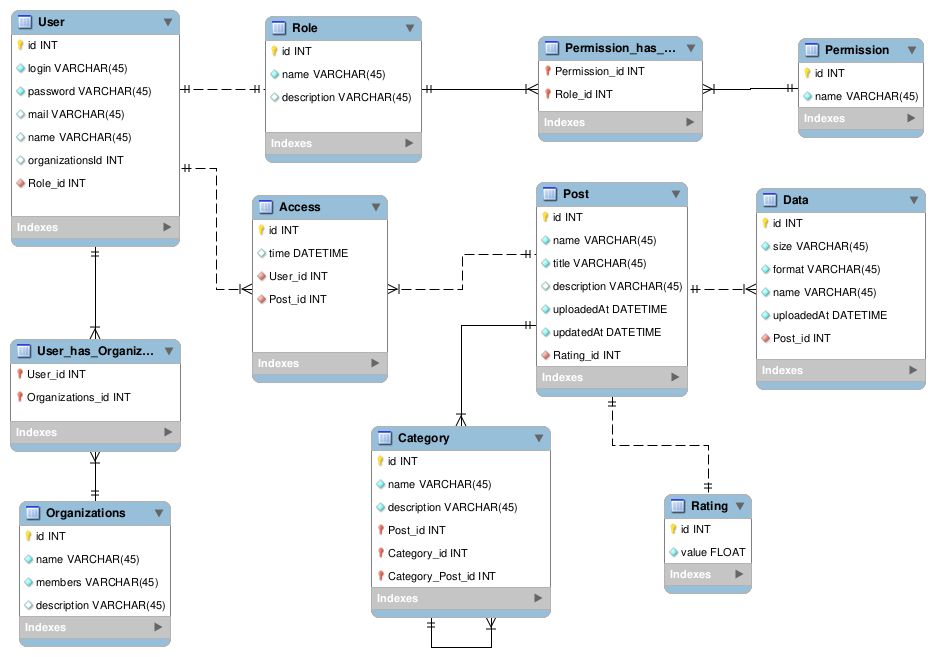
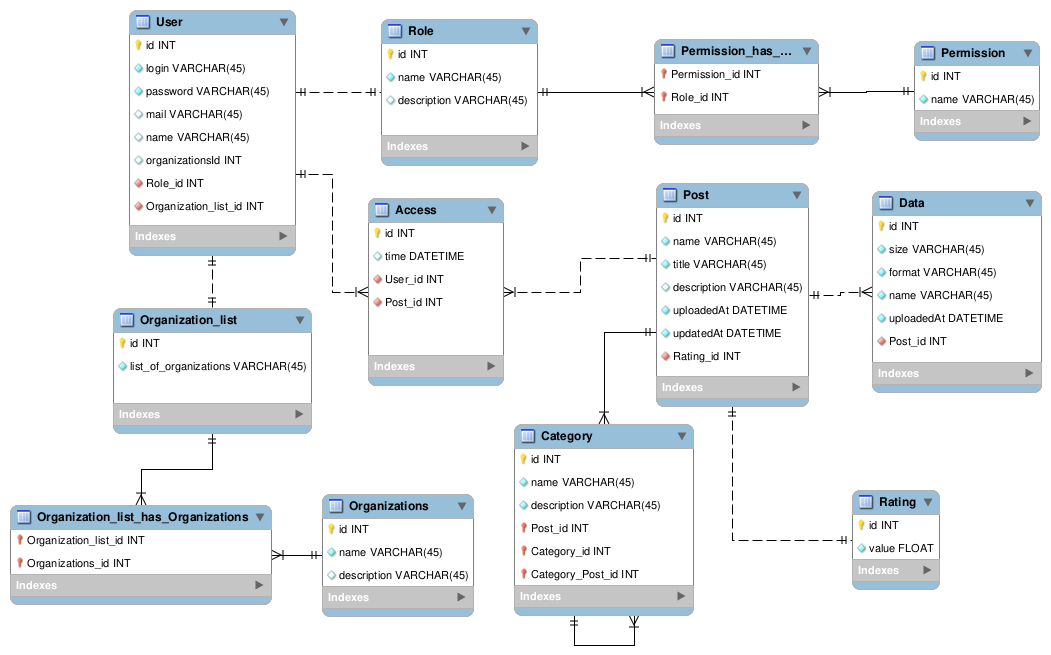
Finalize

diff --git a/docs/design/README.md b/docs/design/README.md
@@ -12,51 +12,62 @@ entity User <<ENTITY>> #ffe396
 entity User.password <<TEXT>> #fcf4dc
 entity User.mail <<TEXT>> #fcf4dc
 entity User.login <<TEXT>> #fcf4dc
-entity User.role <<ENTITY>> #ffe396
+entity Role <<ENTITY>> #ffe396
 entity User.name <<TEXT>> #fcf4dc
 entity User.id <<NUMBER>> #fcf4dc
-entity User.organizationsId <<NUMBER>> #fcf4dc
 
 User.password -d-* User
 User.mail -d-* User
-User.login -u-* User
-User.role "0.*"--"1.1" User
-User.name -r-* User
-User.id -u-* User
-User.organizationsId -u-* User
+User.login -r-* User
+Role "0.*"--"1.1" User
+User.name -d-* User
+User.id -d-* User
 
 entity Role.name <<TEXT>> #fcf4dc
 entity Role.id <<NUMBER>> #fcf4dc
 
-Role.name -d-* User.role
-Role.id -d-* User.role
+Role.name -d-* Role
+Role.id -d-* Role
+
+entity Permission_has_Role <<ENTITY>> #ffe396
+
+Permission_has_Role "0.0"-d-"1.1" Role
 
 entity Permission <<ENTITY>> #ffe396
-entity Permission.id <<INT>> #fcf4dc
+entity Permission.id <<NUMBER>> #fcf4dc
 entity Permission.name <<TEXT>> #fcf4dc
 
-Permission -d- User.role
+Permission "1.1"-r-"0.0" Permission_has_Role
 Permission.id -d-* Permission
 Permission.name -d-* Permission
 
-entity Organizations <<ENTITY>> #ffe396
-entity Organizations.id <<NUMBER>> #fcf4dc
-entity Organizations.name <<TEXT>> #fcf4dc
-entity Organizations.members <<TEXT>> #fcf4dc
-entity Organizations.description <<TEXT>> #fcf4dc
+entity Organization <<ENTITY>> #ffe396
+entity Organization.id <<NUMBER>> #fcf4dc
+entity Organization.name <<TEXT>> #fcf4dc
+entity Organization.description <<TEXT>> #fcf4dc
 
-Organizations "0.*"-l-"0.*" User
-Organizations.id -l-* Organizations
-Organizations.name -d-* Organizations
-Organizations.members -d-* Organizations
-Organizations.description -d-* Organizations
+Organization.id -l-* Organization
+Organization.name -d-* Organization
+Organization.description -d-* Organization
+
+entity Organization_list_has_Organizations <<ENTITY>> #ffe396
+
+Organization "1.1"-d-"0.*" Organization_list_has_Organizations
+
+entity Organization_list <<ENTITY>> #ffe396
+entity Organization_list.id <<NUMBER>> #fcf4dc
+entity Organization_list.list_of_organizations <<TEXT>> #fcf4dc
+
+Organization_list_has_Organizations "0.*"-d-"1.1" Organization_list
+Organization_list.id -d-* Organization_list
+Organization_list.list_of_organizations -l-* Organization_list
+Organization_list "1.1"-l-"1.1" User
 
 entity Access <<ENTITY>> #ffe396
 entity Access.id <<NUMBER>> #fcf4dc
 entity Access.time <<DATETIME>> #fcf4dc
 
 User "1.1"-d-"0.*" Access
-Organizations "1.1"-d-"0.*" Access
 Access.id -r-* Access
 Access.time -l-* Access
 
@@ -68,7 +79,7 @@ entity Post.description <<TEXT>> #fcf4dc
 entity Post.uploadedAt <<DATETIME>> #fcf4dc
 entity Post.updatedAt <<DATETIME>> #fcf4dc
 
-Access "0.*"-d-"0.*" Post
+Access "0.*"-d-"1.1" Post
 
 Post.id -u-* Post
 Post.name -u-* Post
@@ -117,35 +128,52 @@ Rating.id -d-* Rating
 @startuml
 
 entity "User" <<ENTITY>>  {
+  + id <<INT>>
+  + login <<TEXT>> 
   + password <<TEXT>> 
   + mail <<TEXT>> 
-  + login <<TEXT>> 
-  + name <<TEXT>> 
-  + id <<NUMBER>> 
-  + organizationsId <<NUMBER>> 
+  + name <<TEXT>>  
+  + roleID <<INT>>
+  + organizations_listID <<NUMBERINT> 
 }
 
 entity "Role" <<ENTITY>>  {
-  + name <<TEXT>> 
-  + permissionRate <<INT>> 
   + id <<INT>> 
+  + name <<TEXT>>
+  + description <<Text 
 }
 
-entity "Guest" <<ENTITY>>  {
-  + id <<INT>> 
+entity "Permission_has_Role" {
+  + permissionId <<INT>>
+  + roleId  <<INT>>
 }
 
+entity "Permission" <<ENTITY>> {
+  + id <<INT>>
+  + name <<TEXT>>
+}
+
+entity Organization_list <<ENTITY>> {
+  + id <<INT>>
+  + list_of_organizations <<TEXT>>
+}
+
+entity "Organization_list_has_Organizations" <<ENTITY>> {
+  + organization_listID <<INT>>
+  + organizationsId <<INT>>
+}
 
 entity "Organizations" <<ENTITY>>  {
   + id <<INT>> 
   + name <<TEXT>> 
-  + members <<TEXT>> 
-  + rating <<NUMBER>> 
+  + description <<TEXT>> 
 }
 
 entity "Access" <<ENTITY>>  {
   + id <<INT>> 
   + time <<DATETIME>> 
+  + UserID <<INT>>
+  + PostID <<INT>>
 }
 entity "Post" <<ENTITY>>  {
   + id <<INT>> 
@@ -154,13 +182,16 @@ entity "Post" <<ENTITY>>  {
   + description <<TEXT>> 
   + uploadedAt <<DATETIME>> 
   + updatedAt <<DATETIME>> 
+  + RatingID <<INT>>
 }
+
 entity "Data" <<ENTITY>>  {
   + id <<INT>> 
   + name <<TEXT>> 
   + format <<TEXT>> 
   + size <<TEXT>> 
   + uploadedAt <<DATETIME>> 
+  + PostID <<INT>>
 }
 
 
@@ -168,6 +199,9 @@ entity "Category" <<ENTITY>>  {
   + id <<INT>> 
   + name <<TEXT>> 
   + description <<TEXT>> 
+  + PostID <<INT>>
+  + CategoryID <<INT>>
+  + Category_PostID <<INT>>
 }
 
 entity "Rating" <<ENTITY>>  {
@@ -176,10 +210,12 @@ entity "Rating" <<ENTITY>>  {
 }
 
 Role "1.1"-l->"1.1" User
-User "0.*"-->"0.*" Organizations
+Permission_has_Role "0.0"-l->"1.1" Role
+Permission "1.1"-d->"0.0" Permission_has_Role
+Organizations "1.1"-r->"0.0" Organization_list_has_Organizations
+Organization_list_has_Organizations "0.0"-d->"1.1" Organization_list
+Organization_list "1.1"-r->"1.1" User
 User "1.1"-d->"0.*" Access
-Organizations "1.1"-d->"0.*" Access
-Guest "1.1"-d->"0.*" Access
 Access "0.*"-d->"1.1" Post
 Category "1.1"-l->"1.1" Post
 Category "0.1"-r->"0.*" Category
